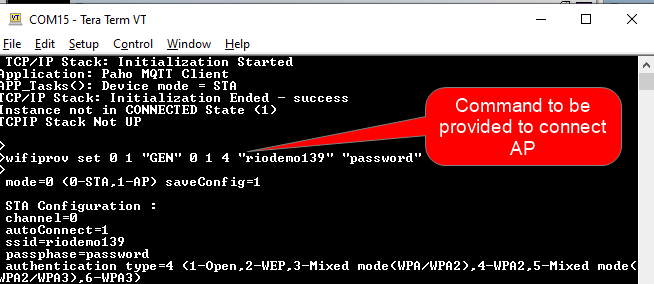
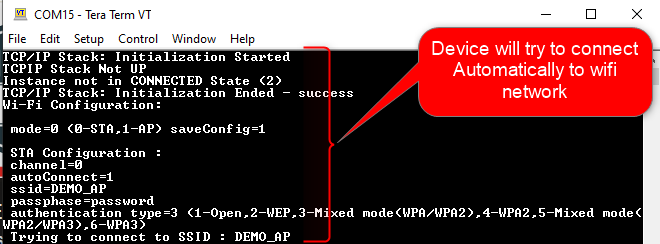
Document update

diff --git a/src/without_ota/readme.md b/src/without_ota/readme.md
@@ -14,25 +14,18 @@ This is a demo application consisting of OTA service . Application will communic
 
 ## Steps To be followed
 
-1. Please provide the correct parameters as shown in below figure :
+1. Provide wifi Credentials:
+    ![](images/wifi_cfg.png). 
+
+2. Please provide the correct parameters in `app_mqtt.h` file as shown in below figure :
 
     ![](images/mqtt_cfg.png)
-2. Configure Parameters accordingly as shown in below figure:
 
-    ![](images/app_h_cfg.png).
+2. Generate code and compile . 
+    ***NOTE: Please Do Not take changes for `app_mqtt.c` & `app_mqtt.h` files, while generating code**
 
-3. Generate code and compile .
-
-4. Please follow below messages on UART1 console :
+3. Please follow below messages on UART1 console :
     ![](images/uart1_console1.png).
 
-   
 
-5. Please provide below command on UART console :
-
-    `"wifiprov set 0 1 "GEN" 0 1 4 <SSID> <password>`
-
-    example:
-    `"wifiprov set 0 1 "GEN" 0 1 4 "riodemo139" "password"`
-
-6. System will try to connect with user defined MQTt broker.
+5. System will try to connect with user defined MQTT broker.
